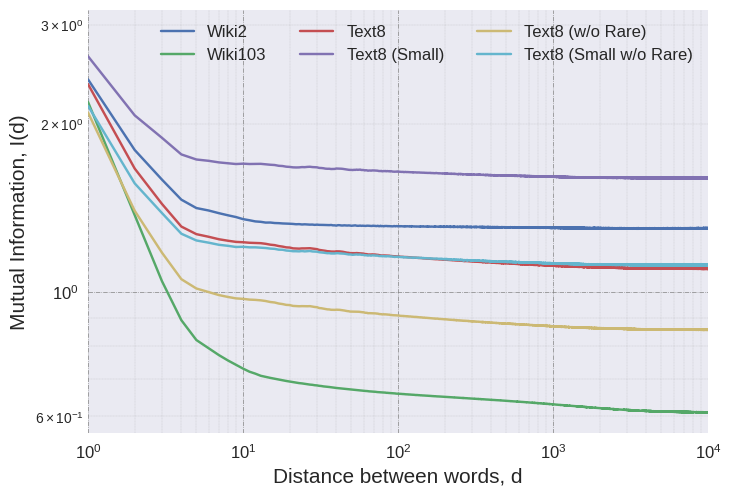
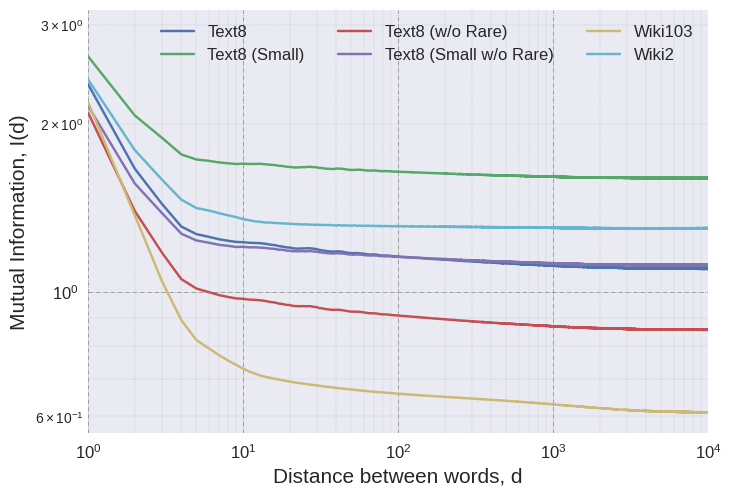
Up

diff --git a/paper_related/plot_words.py b/paper_related/plot_words.py
@@ -53,35 +53,34 @@ for filename in filenames:
 with plt.style.context(('seaborn')):
     ax = plt.axes()
 
-    # plt.loglog(np.arange(1,len(all_mi[0])+1), all_mi[0], label="PTB")
+    plt.loglog(np.arange(1,len(all_mi[0])+1), all_mi[0], label="PTB")
 
-    # plt.loglog(np.arange(1,len(all_mi[6])+1), all_mi[6], label="Wiki2 (Raw)")
-    # plt.loglog(np.arange(1,len(all_mi[5])+1), all_mi[5], label="Wiki2")
-    # plt.loglog(np.arange(1,len(all_mi[7])+1), all_mi[7], label="Wiki2 (Cleaned)")
+    plt.loglog(np.arange(1,len(all_mi[1])+1), all_mi[1], label="Text8")
+    plt.loglog(np.arange(1,len(all_mi[2])+1), all_mi[2], label="Text8 (w/o Rare)")
+    plt.loglog(np.arange(1,len(all_mi[3])+1), all_mi[3], label="Text8 (Small)")
+    plt.loglog(np.arange(1,len(all_mi[4])+1), all_mi[4], label="Text8 (Small w/o Rare)")
 
-    # plt.loglog(np.arange(1,len(all_mi[11])+1), all_mi[11], label="Wiki103 (Raw)")
-    # plt.loglog(np.arange(1,len(all_mi[10])+1), all_mi[10], label="Wiki103")
-    # plt.loglog(np.arange(1,len(all_mi[12])+1), all_mi[12], label="Wiki103 (Cleaned)")
+    plt.loglog(np.arange(1,len(all_mi[5])+1), all_mi[5], label="Wiki2")
+    plt.loglog(np.arange(1,len(all_mi[6])+1), all_mi[6], label="Wiki2 (Raw)")
+    plt.loglog(np.arange(1,len(all_mi[7])+1), all_mi[7], label="Wiki2 (Cleaned)")
 
-    # plt.loglog(np.arange(1,len(all_mi[1])+1), all_mi[1], label="Text8")
-    # plt.loglog(np.arange(1,len(all_mi[3])+1), all_mi[3], label="Text8 (Small)")
-    # plt.loglog(np.arange(1,len(all_mi[2])+1), all_mi[2], label="Text8 (w/o Rare)")
-    # plt.loglog(np.arange(1,len(all_mi[4])+1), all_mi[4], label="Text8 (Small w/o Rare)")
+    plt.loglog(np.arange(1,len(all_mi[8])+1), all_mi[8], label="Wiki19")
+    plt.loglog(np.arange(1,len(all_mi[9])+1), all_mi[9], label="Wiki19 (Text8-like)")
 
-    # plt.loglog(np.arange(1,len(all_mi[8])+1), all_mi[8], label="Wiki19")
-    # plt.loglog(np.arange(1,len(all_mi[9])+1), all_mi[9], label="Wiki19 (Text8-like)")
+    plt.loglog(np.arange(1,len(all_mi[10])+1), all_mi[10], label="Wiki103")
+    plt.loglog(np.arange(1,len(all_mi[11])+1), all_mi[11], label="Wiki103 (Raw)")
+    plt.loglog(np.arange(1,len(all_mi[12])+1), all_mi[12], label="Wiki103 (Cleaned)")
 
     plt.loglog(np.arange(1,len(all_mi[13])+1), all_mi[13], label="Wiki Sample 1")
     plt.loglog(np.arange(1,len(all_mi[14])+1), all_mi[14], label="Wiki Sample 2")
     plt.loglog(np.arange(1,len(all_mi[20])+1), all_mi[20], label="Wiki Sample 3")
     plt.loglog(np.arange(1,len(all_mi[21])+1), all_mi[21], label="Wiki Sample 4")
-    # plt.loglog(np.arange(1,len(all_mi[15])+1), all_mi[15], label="Wiki (PTB Size)")
+    plt.loglog(np.arange(1,len(all_mi[15])+1), all_mi[15], label="Wiki (PTB Size)")
     # plt.loglog(np.arange(1,len(all_mi[16])+1), all_mi[16], label="Wiki (PTB Size 2)")
-    # plt.loglog(np.arange(1,len(all_mi[17])+1), all_mi[17], label="Wiki (PTB Vocabulary)")
+    plt.loglog(np.arange(1,len(all_mi[17])+1), all_mi[17], label="Wiki (PTB Vocabulary)")
     # plt.loglog(np.arange(1,len(all_mi[18])+1), all_mi[18], label="Wiki (PTB Vocabulary 2)")
-    plt.loglog(np.arange(1,len(all_mi[5])+1), all_mi[5], label="Wiki2")
 
-    # plt.loglog(np.arange(1,len(all_mi[19])+1), all_mi[19], label="German Text")
+    plt.loglog(np.arange(1,len(all_mi[19])+1), all_mi[19], label="German Text")
 
     plt.tick_params(labelsize='large', width=5)
     plt.grid(True)
@@ -94,5 +93,5 @@ with plt.style.context(('seaborn')):
     ax.set_xlabel('Distance between words, d', fontsize=15)
     ax.set_ylabel('Mutual Information, I(d)', fontsize=15)
     lgd = ax.legend(loc='upper right', shadow=True, fancybox=True, ncol=3, numpoints=1, prop={'size': 12})
-    plt.savefig('lm_words_wiki2', bbox_extra_artists=(lgd,), bbox_inches='tight')
+    plt.savefig('lm_words', bbox_extra_artists=(lgd,), bbox_inches='tight')
     plt.show()
